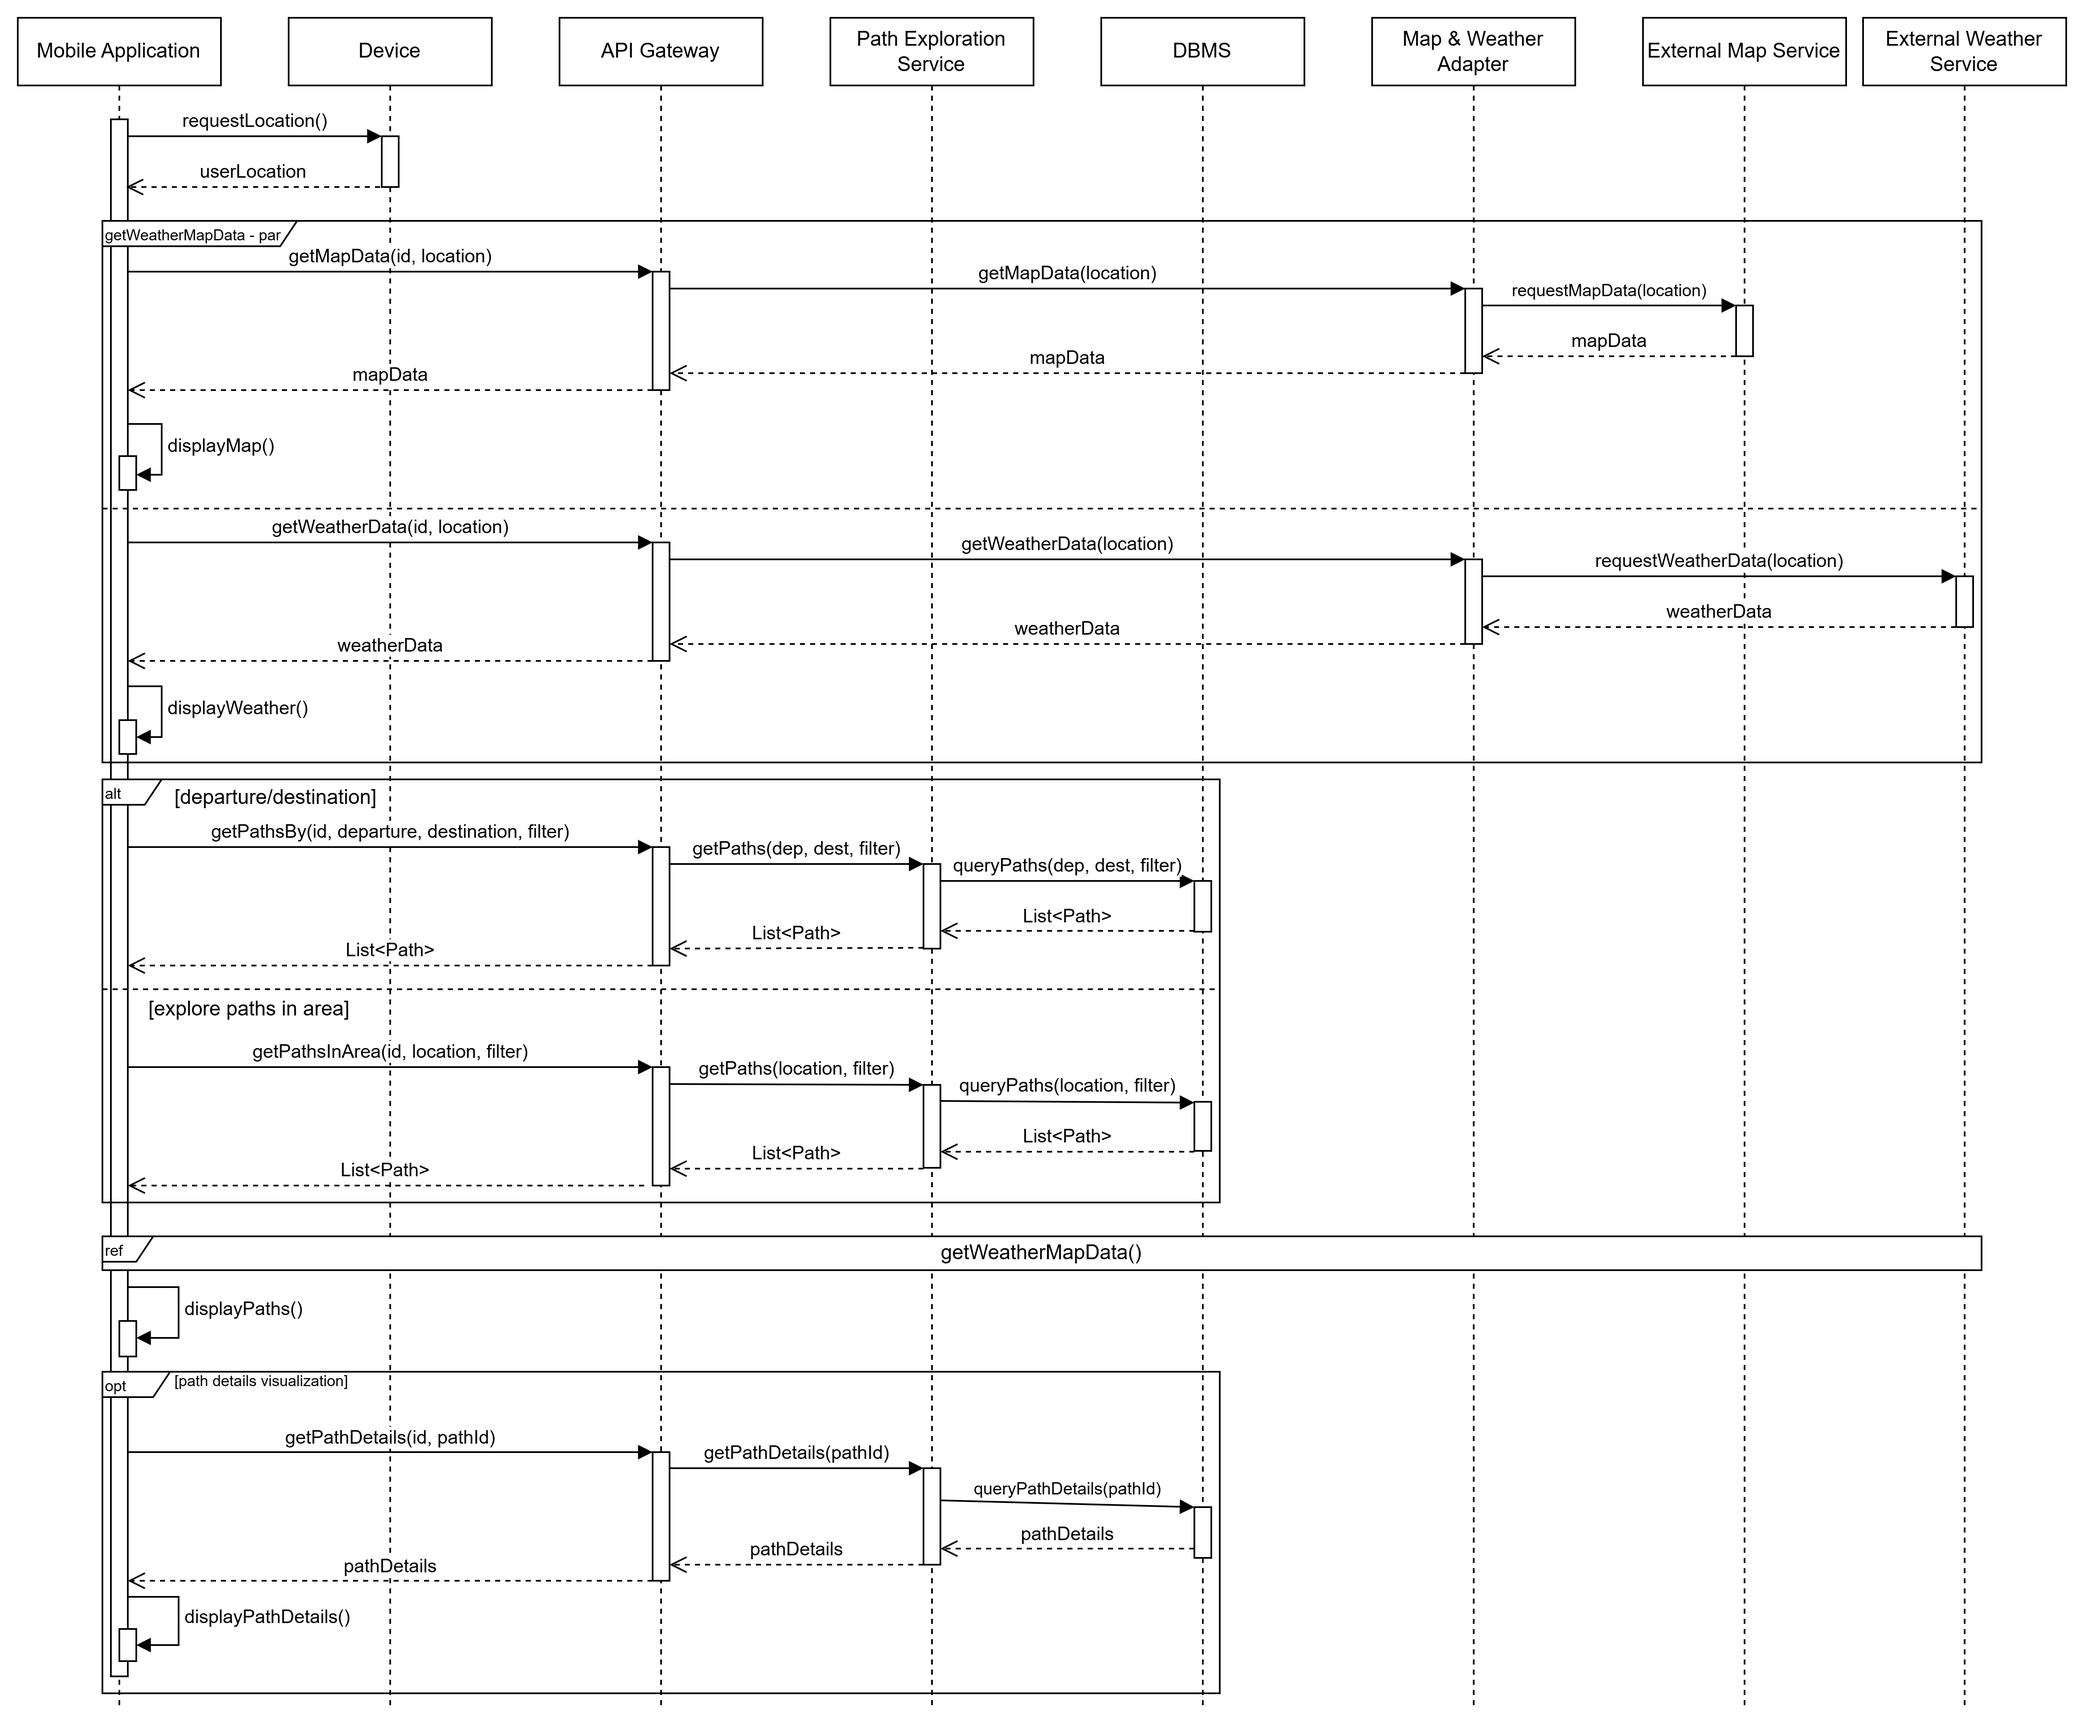
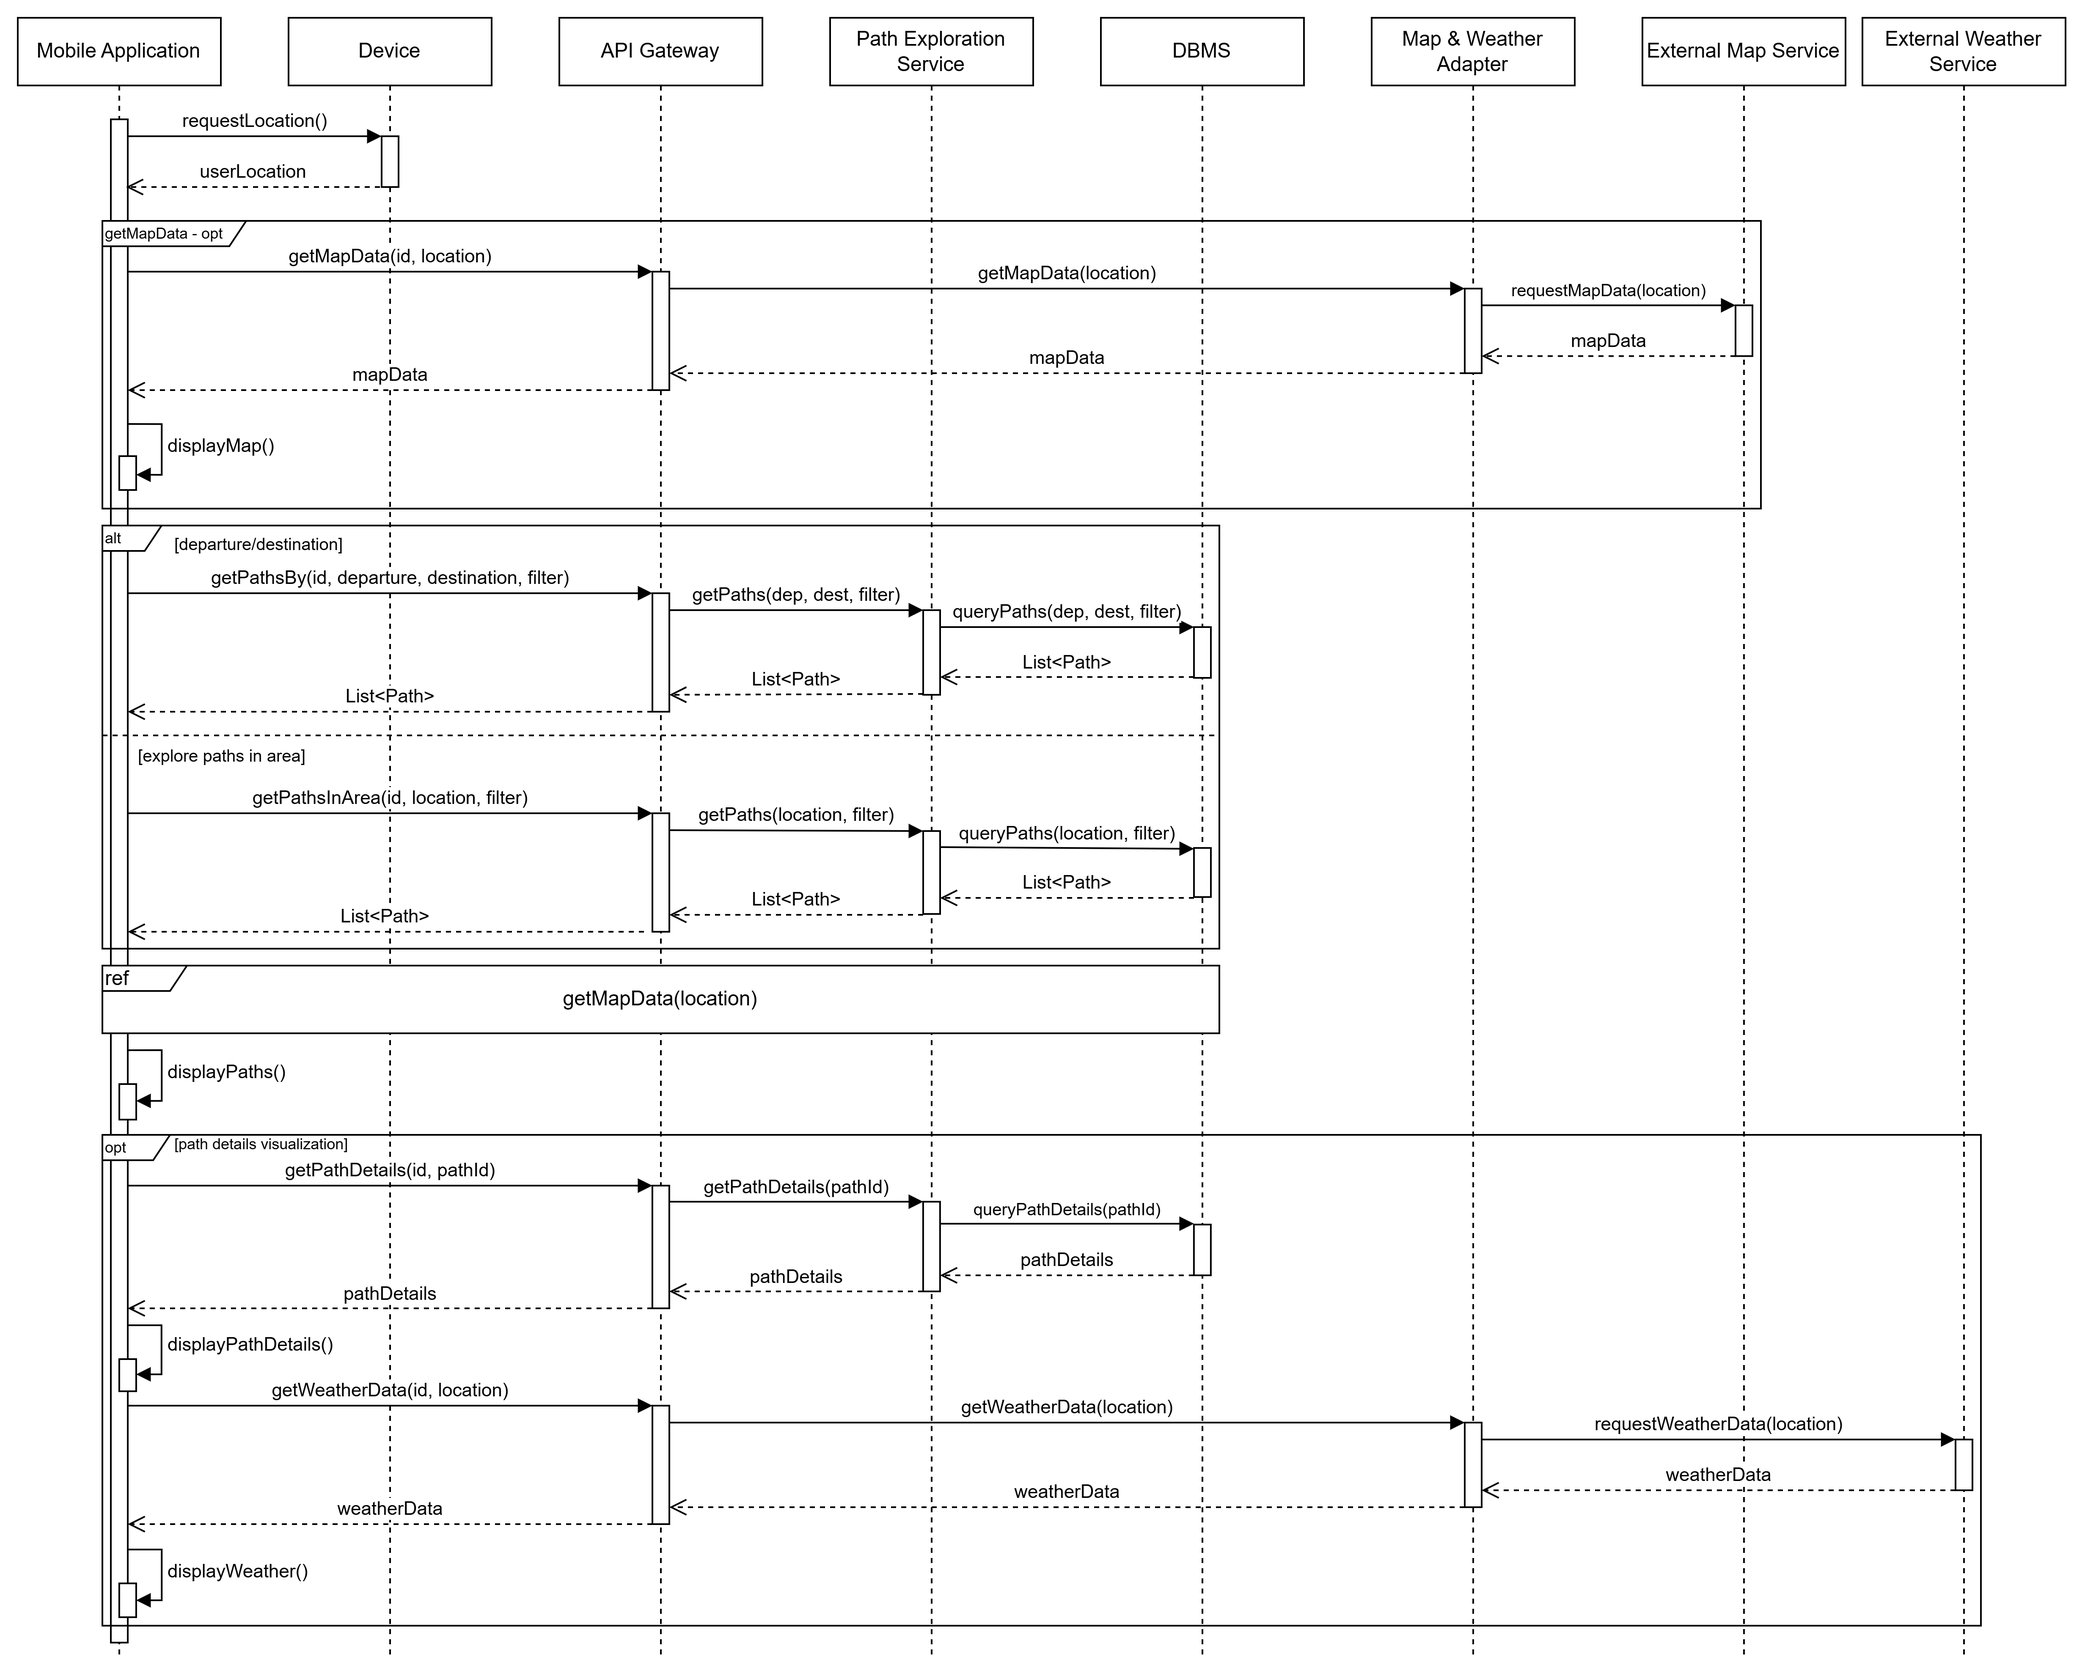
Fix(Section 2.4) Fix Sequence Diagrams.
Fixed sequence diagrams to better model the system.

diff --git a/DD/source/sections/2_architectural_design.tex b/DD/source/sections/2_architectural_design.tex
@@ -207,9 +207,10 @@ This sequence diagram shows the interactions between system components during ac
     \label{fig:browse_sd}
 \end{figure}
 
-This sequence diagram shows the interactions between system components during bike paths browsing. Once the user navigates to the dedicated section in the mobile application, a location request to the device is dispatched. When the user location is returned by the device, the application gets map and weather information from external services, in order to display them. If the user inserts departure and destination points, with attached filters, a request to the server is dispatched, which returns the list of the available bike paths, ranked by score. Otherwise, if the user explores the map, a request by area is sent to the server. In both cases, the map and weather information are updated and the list of bike paths are displayed to the user.
 
-The user can optionally visualize the details of a given path by clicking it,
+This sequence diagram shows the interactions between system components during bike paths browsing. Once the user navigates to the dedicated section in the mobile application, a location request to the device is dispatched. When the user location is returned by the device, the application gets map information from the external service, in order to display the map on the screen. If the user inserts departure and destination points, with attached filters, a request to the server is dispatched, which returns the list of the available bike paths, ranked by score. Otherwise, if the user explores the map, a request by area is sent to the server. In both cases, the map information is updated and the bike paths are displayed.
+
+The user can optionally visualize the details of a given path by clicking on it, which not only retrieves all the path information, but also the weather information on the area regarding the bike path.
 
 \newpage
 \noindent
@@ -231,7 +232,6 @@ This sequence diagram shows the interactions between system components during tr
     \label{fig:change_prefs_sd}
 \end{figure}
 
-
 This sequence diagram shows the interactions between system components during preferences changes. The client simply dispatches a request to switch preferences to the user management component, which saves the preferences to the database, via the DBMS.
 
 \newpage
@@ -243,7 +243,6 @@ This sequence diagram shows the interactions between system components during pr
     \caption{View History and Statistics of Completed Trips Sequence Diagram.}
     \label{fig:details_sd}
 \end{figure}
-
 
 This sequence diagram shows the interactions between system components when the user views the history and statistics of completed trips. The client gets from the server the global user statistics, all planned and completed trips in parallel, showing them to the user. Once the user clicks on a completed trip, all information regarding the trip is fetched and displayed.
 
@@ -269,8 +268,7 @@ This sequence diagram shows the interaction between system components during tri
     \label{fig:manual_sd}
 \end{figure}
 
-
-This sequence diagram shows the interaction between system components during manual reporting. After completing his trip, the user can compile the report regarding the bike path he followed. A creation request is dispatched from the client to the report management system, which creates a new draft and inserts it into the database via the DBMS. For each street of the path, the user can add a new obstacle, which is done once again via a request to the report management service. Once the validation process is completed, the user may optionally publish the data: the client sends a request to the report management component which updates the state of the report, and publishes a new event on the bus, which triggers a synchronization process in the application layer to make the data up-to-date. 
+This sequence diagram shows the interaction between system components during manual reporting. After completing his trip, the user can compile the report regarding the bike path he followed. A creation request is dispatched from the client to the report management system, which creates a new draft and inserts it into the database via the DBMS. For each street of the path, the user can add a new obstacle, which is done once again via a request to the report management service. Once the validation process is completed, the user may optionally publish the data: the client sends a request to the report management component which updates the state of the report, and publishes a new \code{ReportPublished} (\code{RP}) event on the bus, which triggers a synchronization process in the application layer to make the data up-to-date. 
 
 \newpage
 \noindent
@@ -282,7 +280,7 @@ This sequence diagram shows the interaction between system components during man
     \label{fig:automatic_sd}
 \end{figure}
 
-This sequence diagram shows the interactions between system components during automatic report generation. Once the user starts his trip, the mobile application receives the sensor data, including GPS location, from the device. The client batches all the data and sends it to the tracking ingestion endpoint, which simply publishes to the bus a \code{SensE} event containing the batch. The tracking processing worker reacts to this event by cleaning the data and publishing in turn a new \code{PSensE} event to the bus. This triggers a sequence of tasks in the automatic report generator worker, which creates a new report draft, inserts it into the database, via the DBMS component, and updates it when a new \code{PSensE} event is captured from the bus. When the user reaches the destination point, or stops the recording of the trip, a termination event is published into the bus by either the trip management component or the tracking ingestion endpoint respectively. This event is consumed by the automatic report generator, which queries the draft from the DBMS and sends it to the client, so the user can validate the report. Every validation step executed by the user triggers an update to the database, until the verification is completed. At this point the user may optionally publish the data: the client sends a request to the report management component which updates the state of the report, and publishes a new event on the bus, which triggers a synchronization process in the application layer to make the data up-to-date. 
+This sequence diagram shows the interactions between system components during automatic report generation. Once the user starts his trip, the mobile application receives the sensor data, including GPS location, from the device. The client batches all the data and sends it to the tracking ingestion endpoint, which simply publishes to the bus a \code{TrackingDataReceived} (\code{TDR}) event containing the batch. The tracking processing worker reacts to this event by cleaning the data and publishing in turn a new \code{TrackingDataProcessed} (\code{TDP}) event to the bus. This triggers a sequence of tasks in the automatic report generator worker, which creates a new report draft, inserts it into the database, via the DBMS component, and updates it when a new \code{TDP} event is captured from the bus. When the user reaches the destination point, or stops the recording of the trip, a termination event is published into the bus by either the trip management component or the tracking ingestion endpoint respectively. This event is consumed by the automatic report generator, which queries the draft from the DBMS and sends it to the client, so the user can validate the report. Every validation step executed by the user triggers an update to the database, until the verification is completed. At this point the user may optionally publish the data: the client sends a request to the report management component which updates the state of the report, and publishes a new event on the bus, which triggers a synchronization process in the application layer to make the data up-to-date. 
 
 \vspace{0.5cm}
 \noindent
@@ -294,7 +292,7 @@ This sequence diagram shows the interactions between system components during au
     \label{fig:alerts_sd}
 \end{figure}
 
-This sequence diagram shows the interactions between system components during trip alerts. Once the user has planned a trip, the system activates a polling mechanism that every 12 hours requests weather information to the external weather provider, via the adapter. The alert component, upon receiving the weather data, computes a severity score.  Also, every time the report management service publishes a \code{ReportPublishedE} event on the bus, the alert service reacts by recomputing the severity score. When the score exceeds a given threshold, the alert service triggers a notification to the user's device. 
+This sequence diagram shows the interactions between system components during trip alerts. Once the user has planned a trip, the system activates a polling mechanism that every 12 hours requests weather information to the external weather provider, via the adapter. The alert component, upon receiving the weather data, computes a severity score.  Also, every time the report management service publishes a \code{ReportPublished} (\code{RP}) event on the bus, the alert service reacts by recomputing the severity score. When the score exceeds a given threshold, the alert service triggers a notification to the user's device. 
 
 
 \subsection{Component Interfaces}

diff --git a/DD/source/sections/7_references.tex b/DD/source/sections/7_references.tex
@@ -1,0 +1,11 @@
+\section{References}
+
+The following softwares were used to produce the RASD and DD of the Best Bike Paths project: 
+\begin{itemize}
+    \item All diagrams were made using the Draw.io 29.2.9 software.
+    \item All mock-ups were made using the Figma 125.11.6 software.
+    \item Overleaf web application for document writing and rendering.
+\end{itemize}
+
+Also, generative AI models were used to refine sentences and elevate writing style inside the DD and RASD documents and to check how to model some aspects of the BBP software in UML. Also LLMs were used to overcome some difficulties with \LaTeX\hspace{1mm}  itself, as it sometimes produces cryptic error messages only oCamel programmers can understand. More specifically, the Gemini Pro and ChatGPT models were used, but all the thinking process and the final design and implementation decisions were made by humans. All the outputs of these tools were verified, further refined and integrated with the documents.
+

diff --git a/DD/source/sections/6_effort.tex b/DD/source/sections/6_effort.tex
@@ -4,11 +4,11 @@ The following table displays the effort spent in hours of both group members on 
 \begin{table}[H]
     \centering
     \renewcommand{\arraystretch}{1.3}
-    \begin{tabular}{|l|l|l|l|l|}
+    \begin{tabular}{|l|l|l|l|l|l|l|}
         \hline
-        & \textbf{Section 1} & \textbf{Section 2} & \textbf{Section 3} & \textbf{Section 4} \\
+        & \textbf{Section 1} & \textbf{Section 2} & \textbf{Section 3} &  \textbf{Section 4} & \textbf{Section 5}\\
         \hline
-        Vokrri Fabio & 1 & 24 & 1 & 1 & 12\\
+        Vokrri Fabio & 1 & 24 & 0 & 1 & 12\\
         \hline 
         Soufien Sadgal & 0 & 28 & 0 & 2 & 12\\
         \hline

diff --git a/DD/main.tex b/DD/main.tex
@@ -91,5 +91,7 @@
 \include{DD/source/sections/2_architectural_design}
 \include{DD/source/sections/3_UI_design}
 \include{DD/source/sections/4_requirement_traceability}
-
+\include{DD/source/sections/5_implementation_integration_test_plan}
+\include{DD/source/sections/6_effort}
+\include{DD/source/sections/7_references}
 \end{document}

diff --git a/DD/source/sections/5_implementation_integration_test_plan.tex b/DD/source/sections/5_implementation_integration_test_plan.tex
@@ -1,0 +1,1 @@
+\section{Implementation, Integration \& Test Plan}
